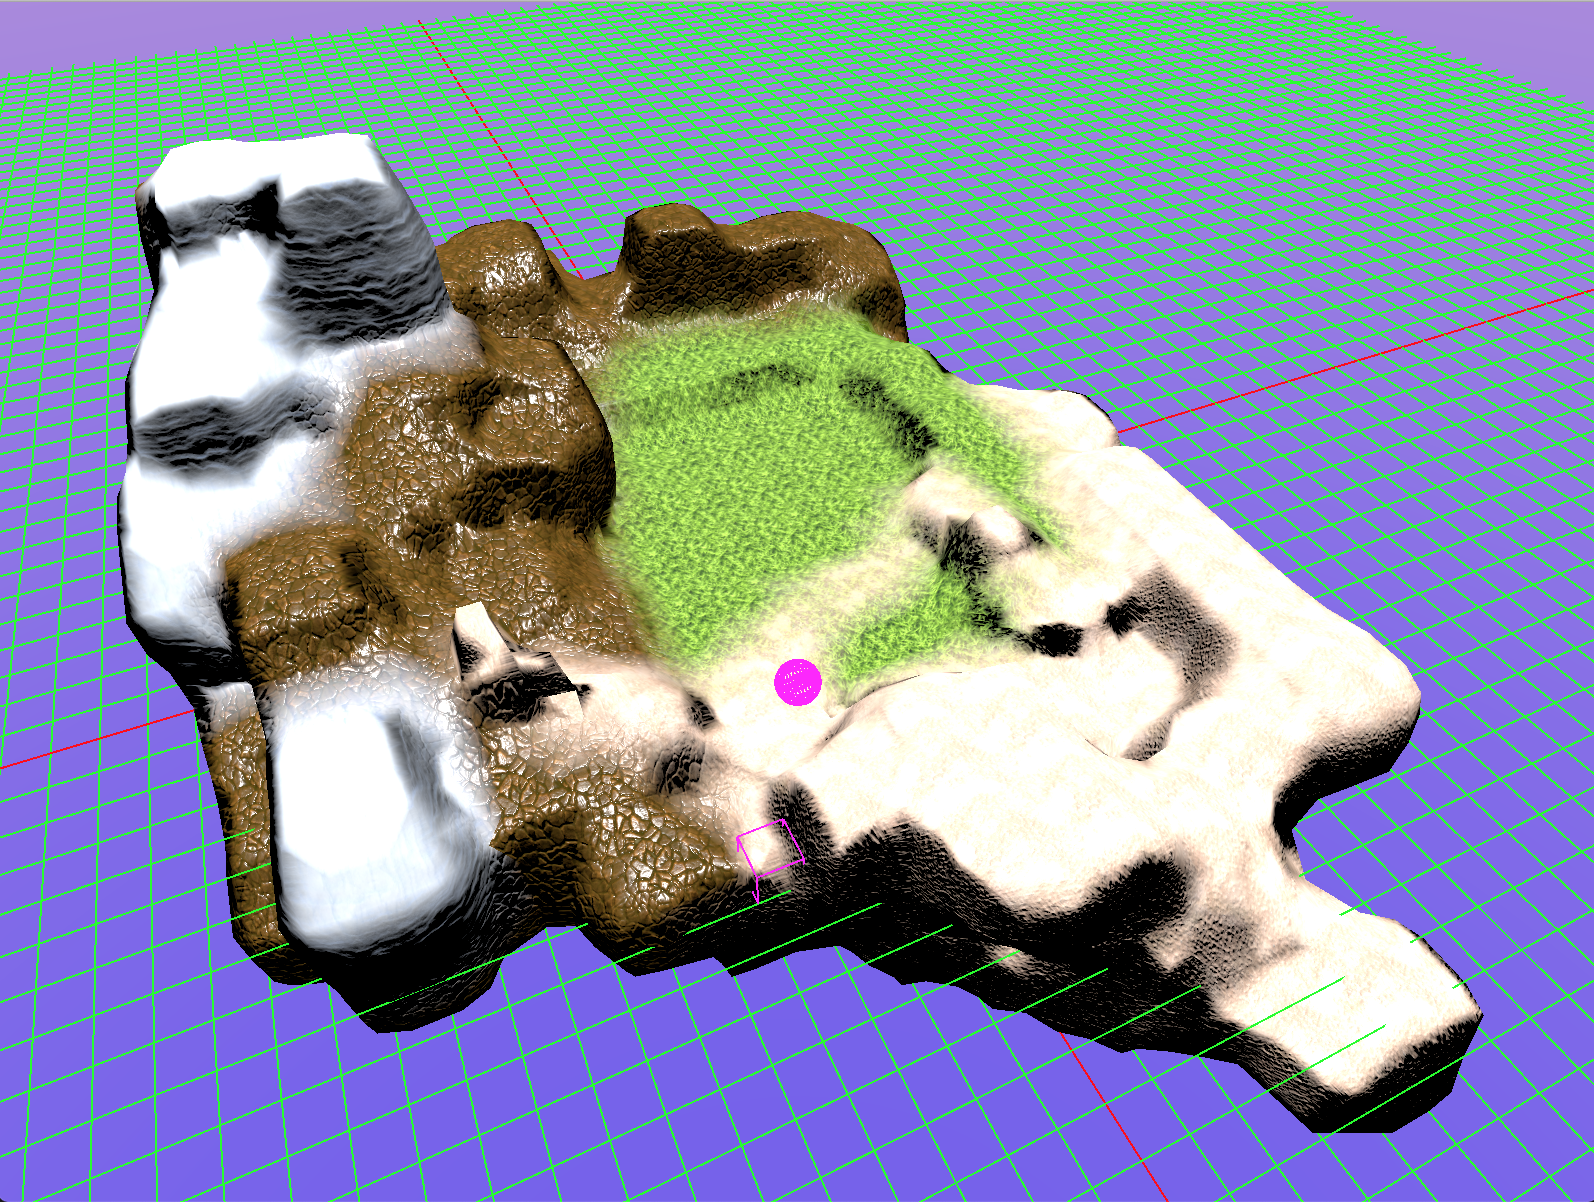
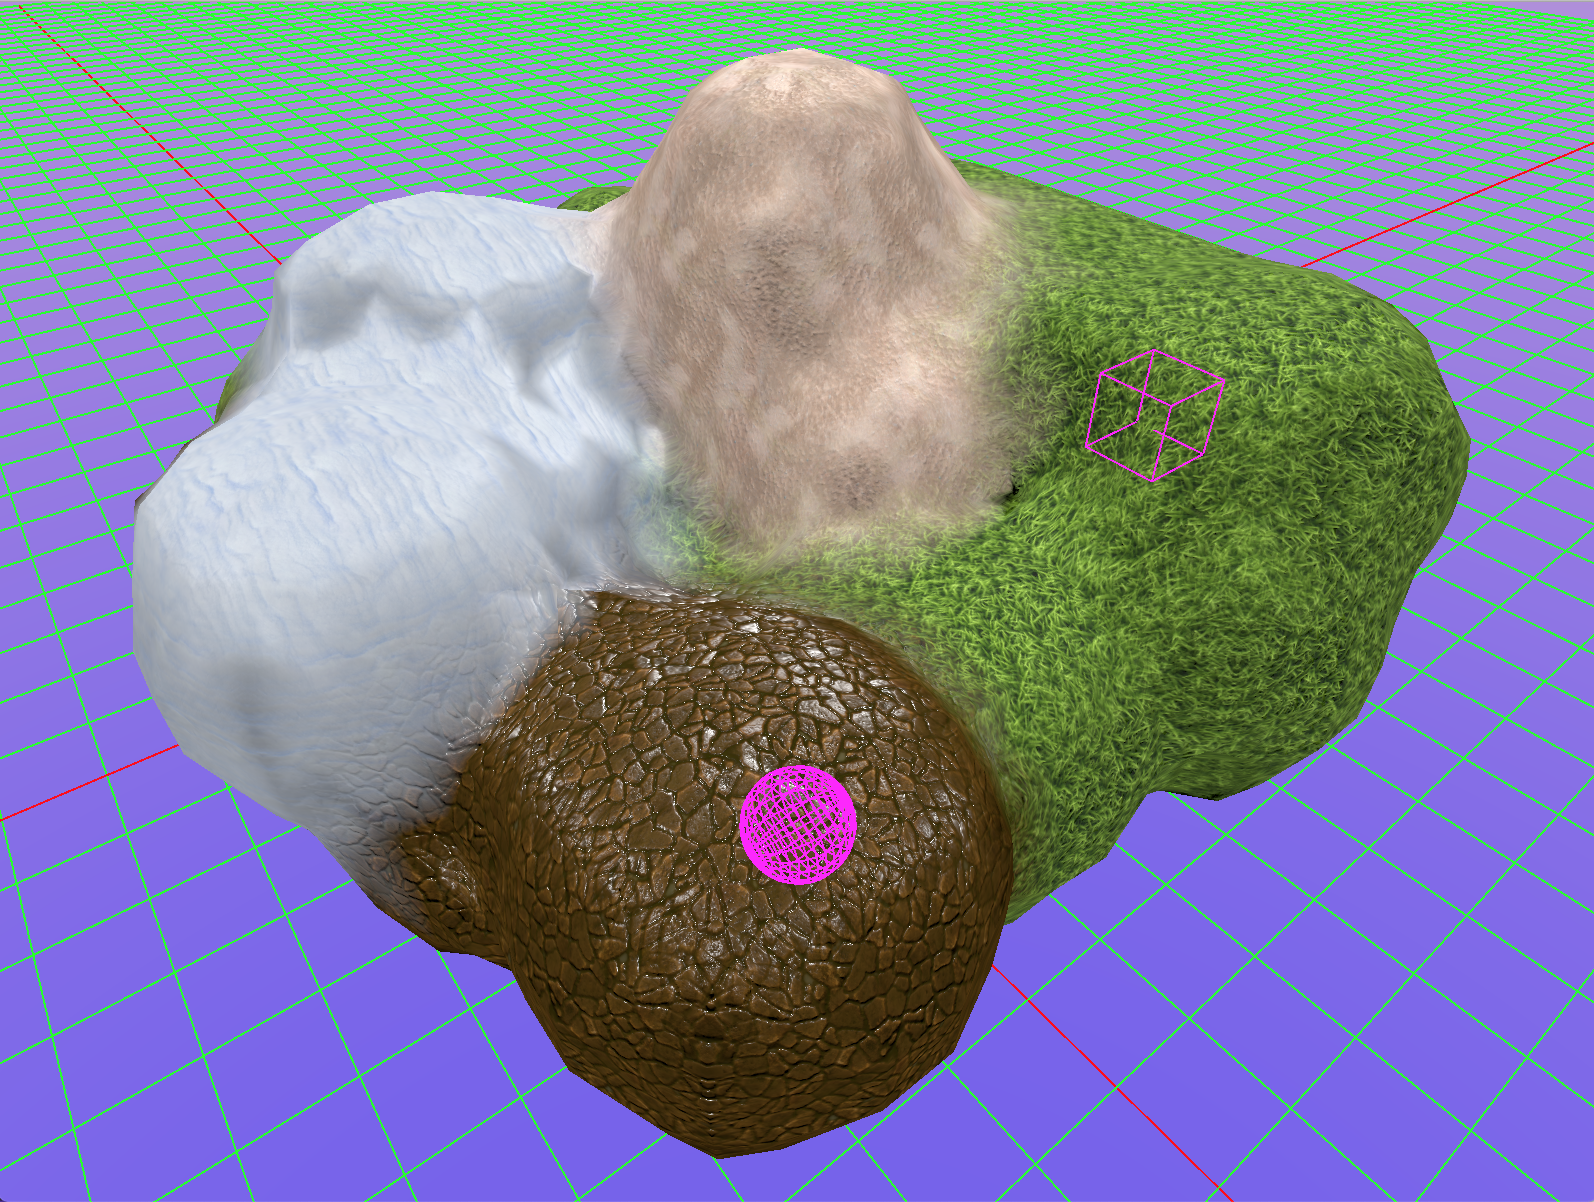
make the main screen a bit better, use less intense lighting from more angles

diff --git a/src/bin/editor/only_state.rs b/src/bin/editor/only_state.rs
@@ -66,7 +66,10 @@ impl SimpleState for OnlyState {
 
         make_hover_hint_lines(world);
         make_gridlines(100, world);
-        make_sunlight(10.0, world);
+        make_sunlight([-100.0, 100.0, -100.0], 2.0, world);
+        make_sunlight([-100.0, 100.0, 100.0], 2.0, world);
+        make_sunlight([100.0, 100.0, -100.0], 2.0, world);
+        make_sunlight([100.0, 100.0, 100.0], 2.0, world);
         make_camera(
             Point3::new(0.0, 10.0, 0.0),
             Point3::new(0.0, 0.0, 0.0),
@@ -124,7 +127,7 @@ fn make_gridlines(num_grid_lines: usize, world: &mut World) {
     world.create_entity().with(lines).build();
 }
 
-fn make_sunlight(intensity: f32, world: &mut World) {
+fn make_sunlight(position: [f32; 3], intensity: f32, world: &mut World) {
     let light: Light = PointLight {
         intensity,
         color: Rgb::new(1.0, 1.0, 1.0),
@@ -132,7 +135,7 @@ fn make_sunlight(intensity: f32, world: &mut World) {
     }
     .into();
     let mut tfm = Transform::default();
-    *tfm.translation_mut() = Vector3::new(0.0, 100.0, 0.0);
+    *tfm.translation_mut() = Vector3::from(position);
 
     world.create_entity().with(light).with(tfm).build();
 }
